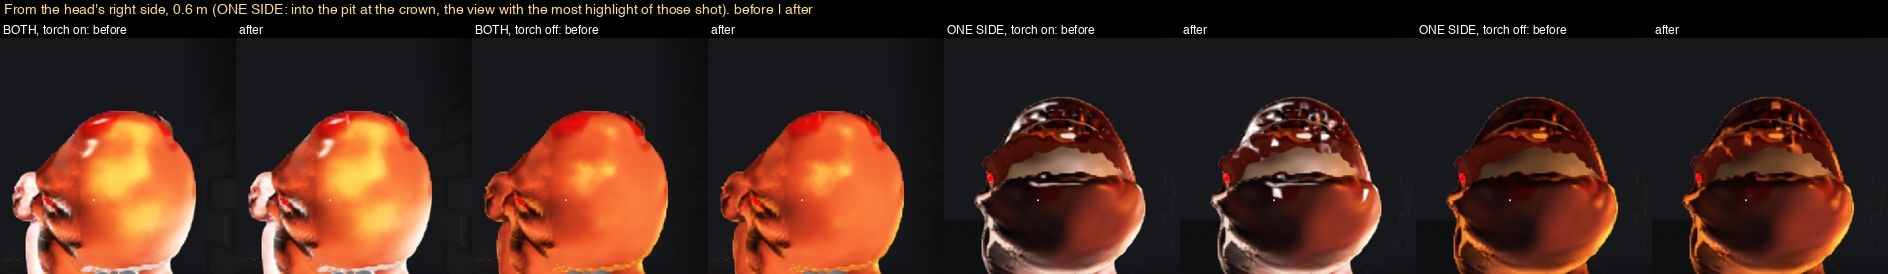
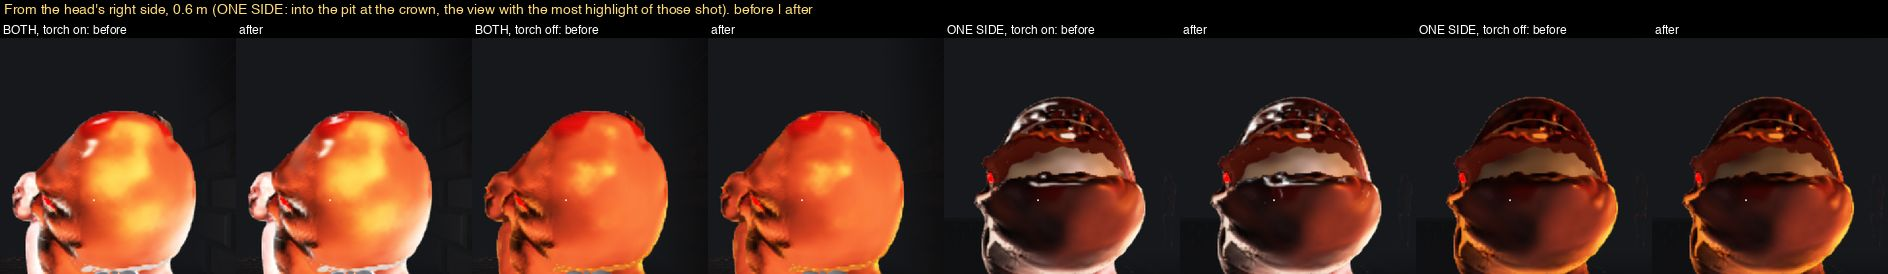
docs(head-split): the wet film's review fixes
NOTES: the head-side gate and its proof under an open head, the tangent
projection, horizon and retune with the numbers beside the first round's,
the depth fault reworded as unexplained (what the reviewer ruled out, the
4 x 4 texel cells, the gate's guard and that it fails on the faulty build),
the wobble strip's flicker, and what is on record (the deferred entry, the
lamps under a lit torch, the cost per raw texel, the fade's distances).
HANDOFF to match. Sheets look/10 to 12 shot again, 13 the wobble strip.

diff --git a/docs/dev-notes/2026-10-04-head-split/NOTES.md b/docs/dev-notes/2026-10-04-head-split/NOTES.md
@@ -1408,15 +1408,26 @@ tail's compose right after the light list's add and before the highlight shoulde
 - **With the torch lit the lamps are not the key** (`game-light-list-leaves.ts torchLane`: lit, the torch keeps the
   key by its per-pixel beam and the lamps are only in the list's sums; off, the list's dominant pick is the key). So a
   lamp can glint off the film only with the torch off. Lit, the lamps add nothing to the film.
-- **A second `bodyLights` call in the march entry leaves screen tiles of an open head at a wrong depth.** The first
-  build walked the list again off the film's normal (`bodyLights(p, glisN, V, gInstLights, lightList, false, true)`
-  behind the raw gate). On the float march target, 72 to 197 texels of each 0.6 m capture, in blocks on the 16 px tile
-  grid at the head's silhouette, kept their lit colour to the bit but took ONE exact clip depth per camera: the
-  projection of the world origin (view distance -9.74 m from the front, 13.15 m from three-quarter). In the composite
-  they are rectangular notches. With only that call removed: 0 such texels. With the call in the text but unreachable
-  (`if (false)`): 0. Closed bodies never showed it. The mechanism is NOT known. The block does not call it (a text pin
-  in its test), and the lamp's term reads the key instead. A follow-up to find the mechanism, and whether bones or
-  chunks can hit it, is flagged.
+- **An unexplained depth fault** (reworded after review: it is not a rule about `bodyLights`). The first build of
+  the block walked the light list again off the film's normal (`bodyLights(p, glisN, V, gInstLights, lightList,
+  false, true)` behind the raw gate). On the float march target, 72 to 197 texels of each 0.6 m capture then kept
+  their lit colour to the bit but took ONE exact clip depth per camera: the projection of the world origin (view
+  distance -9.74 m from the front, 13.15 m from three-quarter). In the composite they are rectangular notches in the
+  head's silhouette. With only that call removed: 0 such texels. With the call in the text but unreachable
+  (`if (false)`): 0. Closed bodies never showed it.
+  - **The cells.** The bad texels are whole 4 x 4 texel cells of the 400 x 300 march target (in three saved captures
+    14 of 16, 11 of 11 and 10 of 10 touched cells have every body texel bad; on a 16-texel grid none has). I first
+    wrote "16 px tiles", from `tile-cull.ts TILE_SIZE_PX`: the data does not support that. A 4-texel cell is about
+    13 px of the 1280 px screen.
+  - **What the reviewer ruled out.** `bodyLights` is pure (no private write, no callee). The entry already has two
+    call sites, in exclusive branches (`light-list.wgsl.ts`). The bad texels are skin at the jaw's silhouette whose
+    colour is bit-equal to `gain` 0, so the added call never ran on them. The fault also shows on an open head 4.2 m
+    away. That depth needs `cameraPosition + rayDir x t` (`zombie-gpu.ts createMarchMaterial`) to be exactly zero: a
+    zeroed temporary, from codegen or from the node graph's ordering. The mechanism is NOT known, and the next
+    unrelated edit to the light tail could bring it back without anyone calling `bodyLights`.
+  - **What holds it now.** The gate's depth guard (review fixes, below) catches it whatever the cause. The block does
+    not walk the list, and its test pins the entry's count of `bodyLights(` at 2: a tripwire for the one edit known
+    to trigger it, not an explanation. A follow-up to find the mechanism is filed.
 
 ### The constants (`SPLIT_SHADE.glisten`)
 
@@ -1427,10 +1438,11 @@ tail's compose right after the light list's add and before the highlight shoulde
 | `spill` | 0.3 | how far past the beam's outer cone the torch's glint reaches, in the cosine to the beam's axis (to about 51 degrees) |
 | `lamps`, `lampPow` | 0.45, 20 | torch off: the keying lamp's share of `gain`, and its exponent |
 | `rawLo`, `rawHi` | 0.3, 0.8 | the film comes in over this range of the wound mask |
-| `lump`, `lumpTilt`, `lumpFlat` | 0.014 m, 1.4, 0.1 | the coarse octave: cell, tilt (tangent at full swing), and the push off zero |
+| `lump`, `lumpTilt`, `lumpFlat` | 0.014 m, 1.4 (**3.2** after the review fixes: the tilt is projected now), 0.1 | the coarse octave: cell, tilt per unit of noise on one axis, and the push off zero |
 | `fine`, `fineTilt` | 0.006 m, 0.3 | the fine octave |
-| `fadeLo`, `fadeHi` | 0.75, 1.5 | an octave fades as its cell shrinks from 1.5 to 0.75 march texels: the fine one whole to about 1 m and gone by 2 m, the coarse one (and with it the film) whole to 2.4 m and gone by 5 m |
-| `edge` | 0.03 m | the fade at the region sphere |
+| `fadeLo`, `fadeHi` | 0.75, 1.5 | an octave fades as its cell shrinks from 1.5 to 0.75 MARCH TEXELS. In metres that is the march resolution's: at the gate's (a 400 x 300 target) the fine one is whole to about 1 m and gone by 2 m, the coarse one (and with it the film) whole to 2.4 m and gone by 5 m. At another resolution the distances scale with the texel |
+| `edge` | 0.03 m at the region sphere (**0.01 m** past the opened head's bounds after the review fixes) | the film's soft boundary |
+| `horizon` | **0.15** (review fixes) | a light's glint comes in over this much of n . L on the surface's own normal |
 
 ### The numbers
 
@@ -1616,3 +1628,141 @@ line but the draw times the same in both; `axe-gate` 25 of 25; `cut-wound-gate` 
 `9dcd133f` the lines that were already there read the same, but for three that moved by a hair (O's lit texels 131
 -> 151, L's centroid 0.51 -> 0.50 texels, M's worst 3.37 -> 3.36 px): shading measures, with the flashlight wetness
 commits in between (not bisected).
+
+## Look: wet under the flashlight, review fixes (2026-10-05)
+
+The step was reviewed: approved with fixes. The look is kept (the owner has the build and has not asked for a change
+to `gain`): `gain`, `pow`, `spill`, `lamps` and `lampPow` are untouched. One code commit on top of the wobble fix
+(`d0fa3777`).
+
+### 1. The film stays on the head
+
+The block's gate was `splitIn` x the wound mask, and the region sphere (r 0.32 m about a hinge at y 1.56) takes in
+the neck, the shoulders and the chest down to about y 1.24. So a wound on the CHEST of a zombie whose head is open
+took the film, and the 3 cm fade at the sphere would have crossed a chest chop.
+
+Now `glisRaw` carries the piece loop's own measure of where the split's flesh is (`map-body.wgsl.ts cap0`), read at
+the hit piece's un-warped point `pS`: `min(up, rho - dh)`, above the hinge plane and inside the hold ball, whole on
+and inside those bounds (the floor of the V lies on the hinge plane) and gone 1 cm past them (`edge`, was 3 cm at the
+region sphere). The film covers the turned halves' raw surfaces and the floor of the V, and nothing under the hinge.
+
+**Proof** (`scratchpad/b8b3/leak.py`). A zombie with its head forced wide open takes a torso chop (its centre 0.315 m
+under the hinge, 0.333 m from it) and a pellet in the shoulder (0.17 m under, 0.244 m from it: inside the region
+sphere). Shot at the chest from 0.9 m and at the shoulder from 0.6 m, torch on and off, this build against `gain` 0,
+every body texel placed in the world by its depth:
+
+| | body texels under the hinge plane (inside the region sphere) | differ, before the fix (`d0fa3777`) | differ, after |
+| --- | --- | --- | --- |
+| chest view, torch on | 36 156 (12 436) | 1247 (up to 0.999) | **0** |
+| chest view, torch off | 36 156 (12 436) | 1340 | **0** |
+| shoulder view, torch on | 35 518 (12 458) | 946 | **0** |
+| shoulder view, torch off | 35 518 (12 458) | 871 | **0** |
+
+In the chop's own window (1.5 x its half-length: 13 187 / 12 266 texels) and the pellet's (2325 / 3187): 0 differ.
+The measure can fail: it read 871 to 1340 on the build before.
+
+And the proof of the first round again, on this build: a closed head with a pellet crater and a torso chop on a
+closed-headed zombie, 0 of 120 000 texels each, torch on and off; over all 62 captures, every body texel outside the
+region sphere of every open head (four of them; 587 723 texels): 0 differ, colour and depth.
+
+### 2. The film leans, and keeps to the lit side
+
+`normalize(n + tilt)` had no tangent projection: with `lumpTilt` 1.4 the film's normal could turn INTO the surface,
+and neither light term had a horizon, so a lamp could glint on flesh facing away from it; and "the tangent of the
+tilt" in the constants' doc was untrue. Now the tilt is projected onto the tangent plane, as the body grain's is
+(`tilt - n dot(tilt, n)`), so the film's normal leans and n . glisN stays positive; and each light's glint carries a
+soft horizon on the surface's own normal (`smoothstep(0, horizon, n . L)`, `horizon` 0.15: the torch's direction for
+the torch, the keying lamp's for the lamp).
+
+**The retune.** Before the fix about half the facets were dead by accident (their normal pointed into the flesh);
+projected, all of them can catch the light, and the same `lumpTilt` gave more and larger highlights (pooled at 0.6 m,
+torch on: 6.48% over 0.6 and 1.98% over 0.95 against 4.63% / 0.76%; 7.63% over 0.95 from three-quarter on the
+two-sided head). `lumpTilt` alone was swept (0.7, 1.0, 1.4, 1.9, 2.5, 3.2) for the nearest match to the previous
+sheets, view by view: **3.2**. `fineTilt` stays 0.3. Nothing else moved.
+
+Share of raw-surface texels over 0.6 / over 0.95 luma (the same raw texels as before: the first round's gate masks),
+the first round's build -> this one:
+
+| | raw texels | torch ON | torch OFF |
+| --- | --- | --- | --- |
+| **0.6 m, pooled** (front, three-quarter, above-behind; both scenes) | 11 467 | **4.63 / 0.76% -> 5.05 / 1.08%** | 1.80 / 0 -> 1.53 / 0% |
+| **2 m, pooled** (front; both scenes) | 179 | **9.50 / 0.56% -> 8.94 / 0.56%** | 1.12 / 0 -> 1.68 / 0% |
+| both, front 0.6 m | 861 | 7.55 / 0.35 -> 8.94 / 0.46% | 2.32 -> 2.90% |
+| both, three-quarter 0.6 m | 1586 | 5.17 / 1.77 -> 5.23 / 1.70% | 2.40 -> 0.50% |
+| both, above-behind | 2743 | 7.51 / 1.02 -> 9.22 / 1.86% | 3.03 -> 3.03% |
+| one side, front 0.6 m | 1251 | 1.84 / 0 -> 1.60 / 0.08% | 0.08 -> 0% |
+| one side, three-quarter 0.6 m | 3037 | 3.49 / 0.59 -> 2.96 / 0.72% | 0 -> 0 (mean luma 0.093 -> 0.072) |
+| one side, above-behind | 1989 | 2.46 / 0.50 -> 2.82 / 0.96% | 3.22 -> 3.02% |
+| from the head's right side, both | 308 | 5.84 / 0.65 -> 9.42 / **2.27%** | 0.32 -> 1.62% |
+| from the head's right side, one side | 3324 | 9.78 / 2.89 -> 4.45 / 1.29% | 0.39 -> 0.09% |
+
+(Before the film at all: 1.98 / 0.02% at 0.6 m and 6.15 / 0% at 2 m, torch on; 1.20% and 0.56% torch off.) No view
+passes 2.3% over 0.95 now. Highlight texels over the 5-frame orbit: both 53, 40, 31, 43, 48 -> 37, 28, 47, 96, 132;
+one side 25, 40, 57, 73, 106 -> 33, 79, 112, 110, 90.
+
+What changed in the picture (`look/10` to `12`, shot again): under the torch the sheets are very close to the first
+round's. With the torch OFF the big cut face of the one-sided head lost its warm speckle from three-quarter (mean
+luma back to the value before the film, 0.072): that face looks away from the lamp that keys the body, and the
+speckle was the fault the horizon removes. Faces that do look at the lamp keep theirs.
+
+### 3. The depth fault: a guard, not a rule
+
+- **The guard** (`scripts/head-split-gate.mjs depthGuard`, run on every capture the gate reads: 227 a run, 7.5 million body texels).
+  The target's alpha is the hit's clip depth, so each body texel is a point in the world: the eye + (its distance
+  along the view axis) x (the texel's ray). A texel is bad when that distance is not positive and finite (behind the
+  camera, or nowhere), or when the point lies outside EVERY actor's proxy box (the view's position +- its
+  `bodyHalf`: the box the march rasterises and can alone hit inside), grown by 5 cm + 3% of the distance (a texel's
+  footprint and the march's accept reach). Of the bad texels, those at the world origin's clip depth (within 1e-6)
+  are counted apart: the fault's signature. One check, in C: 0 bad texels over the run.
+- **It fails on the faulty build.** With the second call put back in the block (a scratch edit, reverted by name),
+  `ONLY=S,O`: "49 lie behind the camera ... 49 of those at the world origin's depth; the first {texel [208, 69],
+  clipDepth 1.0107716, distance -9.741, originDepth 1.0107717}". (O failed too on that build: 9 texels of the still
+  half moved in depth.) On this build, the same subset and the whole gate: 0.
+- The test, this file and HANDOFF no longer call it a `bodyLights` rule (the first round's section above is
+  reworded, with what the reviewer ruled out and the 4 x 4 cells). The test pins `bodyLights(` at 2 in `MARCH_BODY`
+  and `REFINE_BODY`, as a tripwire.
+
+### 4. The wobble: does it sparkle?
+
+A 12-tick strip of an open head driven by the gate's scripted walk (`__sdfGame.headSplitDrive`, scenario J's bob
+and sway; each half swings 0.1 to 0.9 degrees a tick about 30), torch on, from three-quarter at 0.6 m and at 2 m
+(`look/13-wet-flashlight-wobble.jpg`). A film highlight is a body texel over 0.6 luma that is not over 0.6 on the
+same scripted frame with `gain` 0; each is carried back to the CLOSED head by its frame's own split, so a glint that
+rides its half reads as staying. Single-frame: no highlight within 1.75 texel footprints of that spot of flesh on the
+tick before nor on the tick after.
+
+| | highlight texels a tick | single-frame | new against the tick before |
+| --- | --- | --- | --- |
+| 0.6 m (within 4.5 mm) | 118 to 155 | **2.5%** (32 of 1270) | 5.8% |
+| 2 m (within 13.1 mm) | 15 to 22 | 4.0% (7 of 176) | 14.2% |
+
+Far under a third at 0.6 m, so `lumpFlat`, `fadeLo` and `fadeHi` are unchanged. (At `lumpTilt` 1.4 and 2.5 it read
+1.8% and 2.0%.) The pixel-footprint fade is still keyed to the noise's cell, not to the facets' edges; this strip is
+what says that is enough for a walk's wobble. A hard throw, or the eye moving fast, is not measured.
+
+### On record
+
+- **The deferred surface entry does not carry the film.** It has no light tail. The game's default entries (the
+  march and its refine twin) do.
+- **With the torch lit the level's lamps add no glint to the film** (the torch keeps the key; the lamps are only in
+  the list's sums).
+- **Cost per raw texel:** six `noise3` taps and two `pow`, and the same again in the refine twin where it re-shades
+  that texel. Nothing off the opened head's raw surfaces.
+- **The fade's distances** (2.4 m / 5 m) are the gate's march resolution's: the fade is in march texels.
+- **Also pinned now:** with `gain` 0 the three march exports are, to the character, the build without the block
+  (the modules built again with that one number changed: `split-glisten.wgsl.test.ts`).
+
+### The check set
+
+| Check | Result |
+| --- | --- |
+| `march-golden -u` | `MARCH_BODY`, `MARCH_BODY_LIGHT`, `REFINE_BODY` |
+| `compile-census` | phase ready, `uncapturedCount` 0, no device loss; march module 330409 B -> 331149 B (83 fns); cold `warmMs` 21412 (23514 in the first round) |
+| `march-hash` | no pin moved (`d7392d52…` / `76bd51aa…`, `0c71e712…` / `bf6836cd…`, `470ff0b3…` / `f618070e…`) |
+| `head-split-gate.mjs`, twice | **79 checks, 0 failed** each (the wobble fix's 78 and the depth guard: 0 of 7 545 127 body texels over 227 captures behind the camera or outside every proxy box); every check and measure line the same in both runs but the draw times |
+| `axe-gate.mjs` | 25 checks, 0 failed |
+| `cut-wound-gate.mjs` | 30 checks, 0 failed |
+| `tsc --noEmit` | the `node:crypto` error only |
+| the whole tree (`--exclude '**/cut-wound.test.ts'`) | 511 files, 7467 tests passed, 1 skipped (one pin restated: `split-hit.wgsl.test.ts` counted the light tail's readers of `pS` at 2, the motion vectors; the film's head-side gate is the third) |
+| cold boot pair | not run: the census cold compile did not move by a second |
+

diff --git a/docs/dev-notes/2026-10-04-head-split/HANDOFF.md b/docs/dev-notes/2026-10-04-head-split/HANDOFF.md
@@ -123,7 +123,7 @@ The per-task texts used for dispatch are in the session scratchpad (`scratchpad/
     (`SplitState.wobP` / `wobM`), a damped spring driven by the acceleration of the split's mass point, with hard
     limits. It reaches the renderers only through `SplitWarp.thetaP` / `thetaM`. Off: `gainSide` 0 and `gainBob` 0
     (bit-identical). A frozen actor rests at exactly zero offset.
-  - The gate is 78 checks: K holds the kick (and the bone on its swing back), J is the wobble, driven by a scripted
+  - The gate is 78 checks (79 with the depth guard that came with the wet film's review fixes): K holds the kick (and the bone on its swing back), J is the wobble, driven by a scripted
     list of accelerations through `__sdfGame.headSplitDrive` on a frozen zombie. After a thaw the gate waits for the
     wobble to rest (`restWobble`) before it measures a rest angle; a new scenario that thaws must do the same.
   - Review fixes (after the owner played `9dcd133f` and kept the tuning): `stepSplit` sanitises its drive and state,
@@ -135,7 +135,8 @@ The per-task texts used for dispatch are in the session scratchpad (`scratchpad/
   writes no shader text at all. Nothing outside an open split's region changes (0 texels; pins unmoved). Sheets
   `look/10`-`12`. Under the torch at 0.6 m the raw texels over 0.6 luma go 1.98% -> 4.63%, over 0.95 0.02% -> 0.76%
   (worst view 2.89%). Striking on a one-sided split's big face; modest on the two-sided one, where little raw
-  surface faces the player. Stills only: it needs the owner's eye in motion.
+  surface faces the player. It needs the owner's eye in motion. After its review fixes (the head-side gate, the
+  tangent projection and horizon, `lumpTilt` 3.2): 5.05% and 1.08%, worst view 2.27%; sheets `look/10`-`13`.
 - All measurements and photos: [`NOTES.md`](NOTES.md), `b4/` … `b7/`, `look/`.
 - **Testing rule added:** after any WGSL change run the full tree,
   `npx vitest run src/lab/sdf-zombie --exclude '**/cut-wound.test.ts'` (510 files, 3–5 minutes). Targeted sets missed
@@ -164,12 +165,22 @@ The per-task texts used for dispatch are in the session scratchpad (`scratchpad/
 - **Known limits:** a pellet or slug crater on a cut face sits on the old plane, so it shows on both faces. A rod sweep
   across the gap is un-warped as one segment by its midpoint's piece. `sdBody` costs about 2.7× inside the region.
   A forced re-split with fewer sides leaves the old face wound (seam only). A baked split head has no answer yet.
-- **Do not call `bodyLights` a second time in the march entry.** One more call, behind an open split's gate, left
-  16 px screen tiles of the open head at the world origin's depth (rectangular notches). Mechanism unknown;
-  NOTES, "Look: wet under the flashlight". A follow-up is flagged.
+- **An unexplained depth fault in the light tail** (NOTES, "Look: wet under the flashlight"). A build of the wet
+  film that walked the light list a second time left whole 4 x 4 texel cells of an open head (of the 400 x 300 march
+  target) with their colour right and the WORLD ORIGIN's depth: rectangular notches. `bodyLights` is pure and those
+  texels never ran the added call, so it is no rule about `bodyLights`: something zeroes the hit position, the
+  mechanism is not known, and another edit to the light tail could bring it back. The gate's depth guard
+  (`head-split-gate.mjs depthGuard`, every capture) catches it whatever the cause; the count of `bodyLights(` in the
+  entry is pinned at 2 as a tripwire. A follow-up to find the mechanism is filed.
 - **At 0.6 m the torch's beam misses a head in the middle of the screen** (the torch is 0.25 m off the eye, its cone
   21.6 degrees). The body's own torch light there is weak by construction; the wet film has its own wider cone
   (`SPLIT_SHADE.glisten.spill`). With the torch lit the lamps add no glint to the film.
+- **The wet film** keeps to the opened head (above the hinge plane, inside the hold ball: a chest wound of a zombie
+  whose head is open does not take it), leans its normal in the tangent plane and has a horizon on the surface's own
+  normal. The deferred surface entry does not carry it (the game's default entries do). Its cost is per raw texel:
+  six `noise3` and two `pow`, again in the refine twin. Its fade distances are in march texels (2.4 m / 5 m at the
+  gate's resolution). A walk's wobble does not make it sparkle (2.5% of highlight texels last one tick at 0.6 m);
+  fast motion is not measured.
 - **House rule:** never run `git checkout -- .`, `git restore .`, `git reset --hard` or `git clean` here; an
   implementer wiped its own uncommitted work that way.
 
